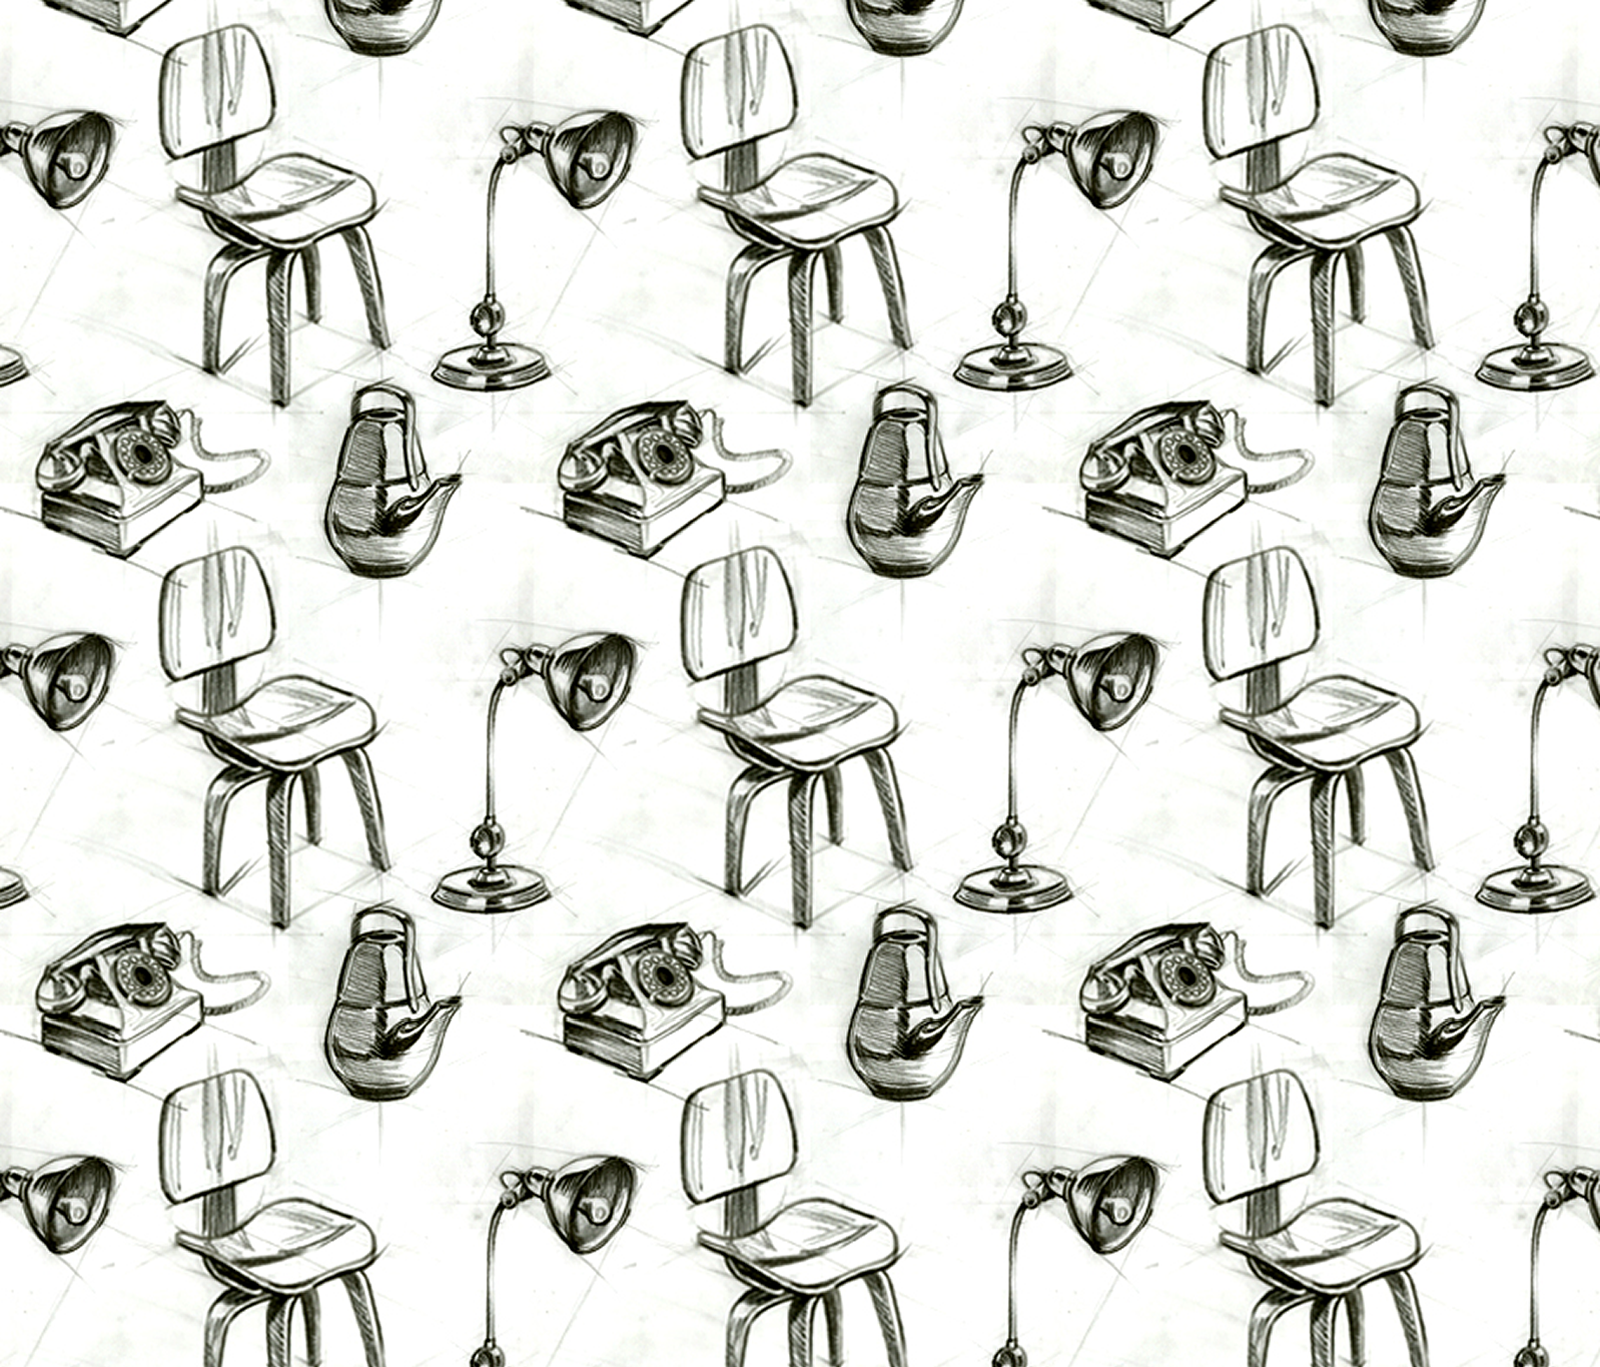
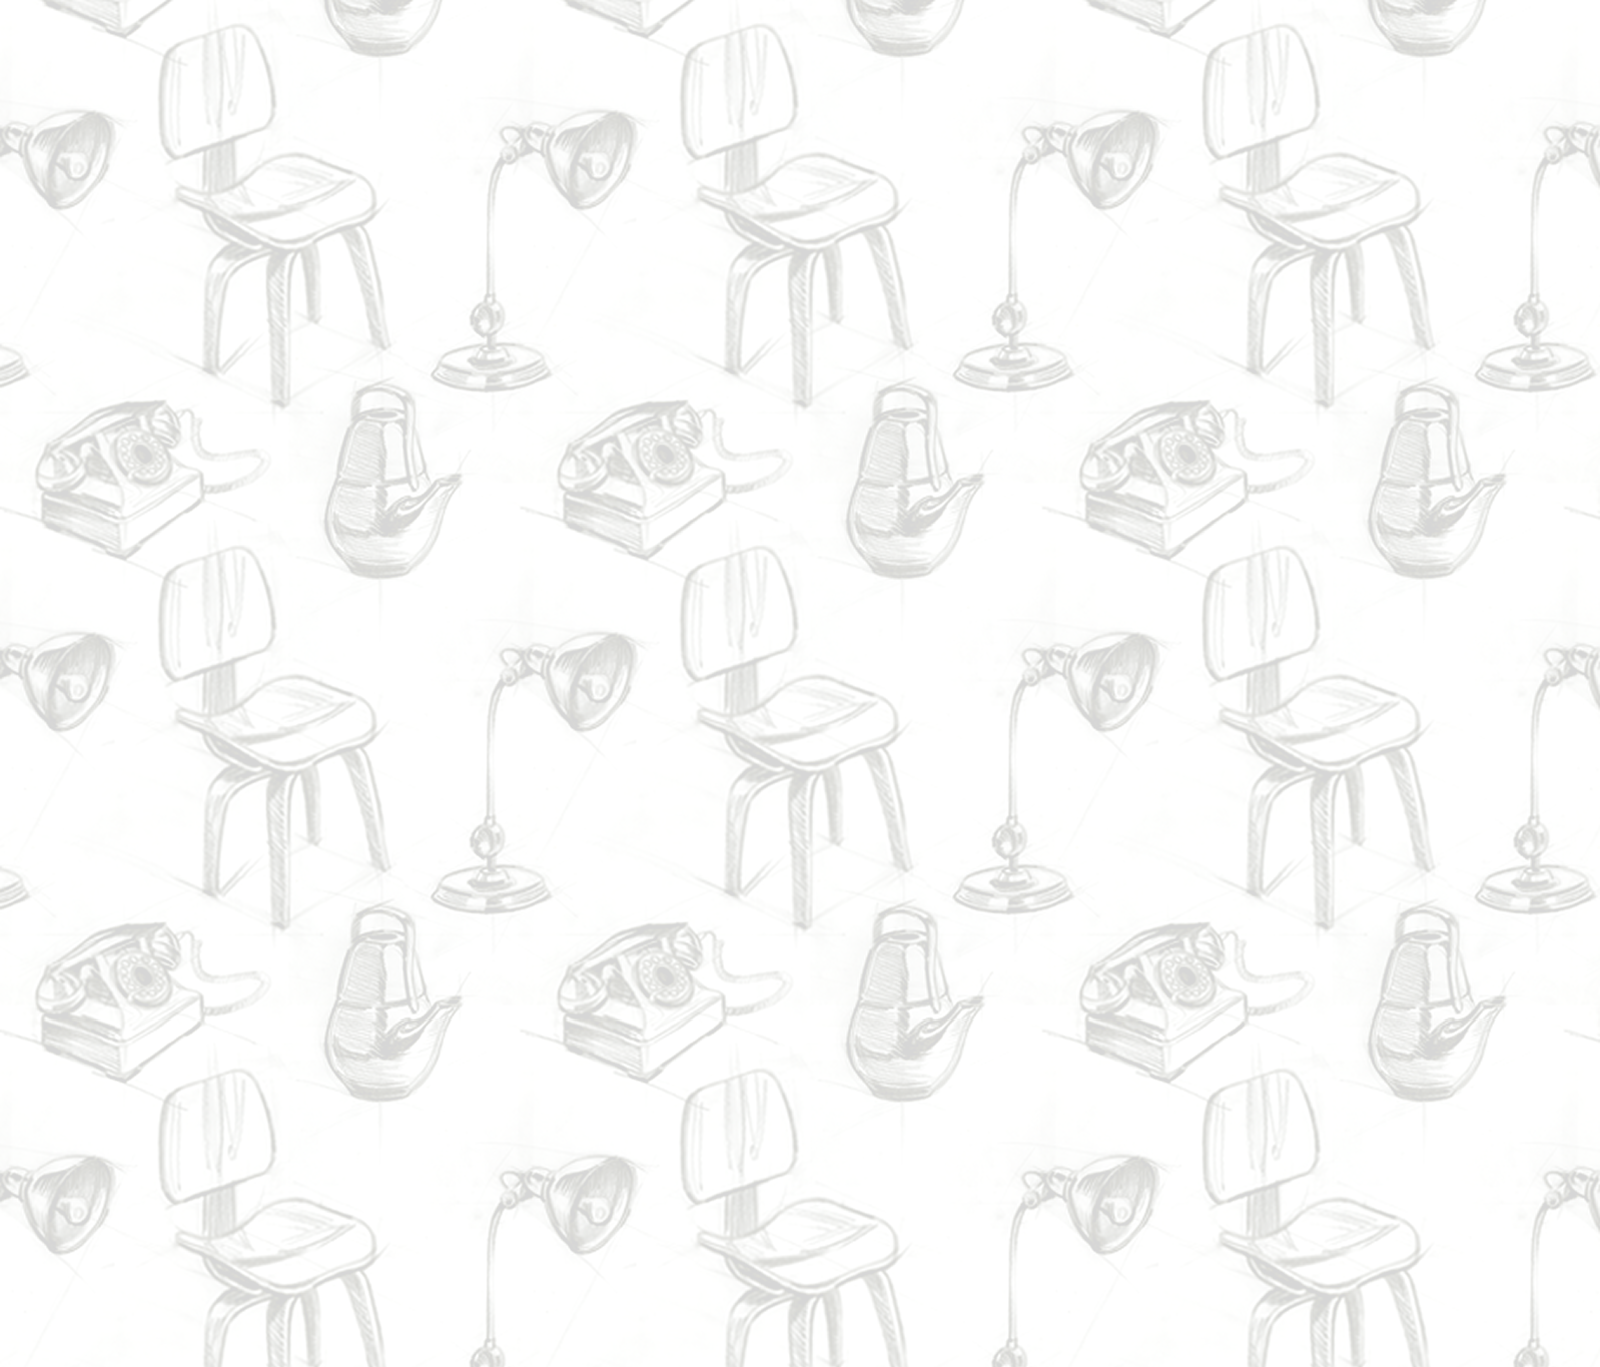
brand

diff --git a/skin/frontend/rwd/beut/css/kh_custom.css b/skin/frontend/rwd/beut/css/kh_custom.css
@@ -423,79 +423,76 @@
     padding: 15px 30px;
 }
 /*cms brand*/
-.cms-brand .main{
-    padding:0 50px;
-}
 
-ul.brands {
-    margin-bottom: 35px;
-    padding: 7px 11px;
-}
-ul.brands li a {
-    font-size: 16px;
-}
-ul.brands li {
-    display: inline;
-    margin: 0 10px;
-}
-ul.brands li:first-child{
-    margin-left: 0px;
-}
 .cms-brand .main {
-   /* background: url("../images/brand.png");*/
-
-}
-.cms-brand .breadcrumbs{
-    display: none;
-}
-.cms-brand .page-title{
-    text-align: center;
-}
-.cms-brand ul.brands{
-    text-align: left;
-    margin-left: 0px;
-    padding-left: 0px;
-}
-.cms-brand .page-title h1 {
-    color: black;
-    font-weight: normal;
-    text-transform: none;
-}
-ul.brands li a {
-    color: black;
-    font-size: 16px;
-    font-style: normal;
+    background: url("../images/brand.png");
+    background-size: auto 100%;
+    padding:20px 50px 40px;
 }
 .brand-col-1 {
     clear: both;
     float: left;
     margin-bottom: 25px;
-    margin-right: 3%;
+    margin-right: 2%;
     margin-top: 10px;
-    width: 22%;
+    width: 18%;
 }
 
 .brand-col-2 {
     float: left;
-    margin-right: 3%;
+    margin-right: 2%;
     margin-top: 10px;
-    width: 22%;
+    width: 18%;
 }
 .brand-col-3 {
     float: left;
-    margin-right: 3%;
+    margin-right: 2%;
     margin-top: 10px;
-    width: 22%;
+    width: 18%;
 }
 .brand-col-4 {
     float: left;
+    margin-right: 2%;
+    margin-top: 10px;
+    width: 18%;
+}
+.brand-col-5 {
+    float: left;
     margin-right: 0;
     margin-top: 10px;
-    width: 25%;
+    width: 20%;
 }
-
-.cms-brand p.letter {
-    font-size: 24px;
+ul.brands {
+    margin-bottom: 35px;
+    padding: 7px 11px 7px 0;
+}
+ul.brands li {
+    display: inline;
+    margin: 0 16px;
+}
+ul.brands li:first-child{
+    margin-left: 0px;
+}
+ul.brands li a {
+    font-size: 16px;
+    color: #000000;
+    font-style: normal;
+}
+.brand-col-1 a, .brand-col-2 a, .brand-col-3 a, .brand-col-4 a, .brand-col-5 a {
+    color: #000000;
+    font-style: normal;
+}
+.cms-brand .page-title h1 {
+    font-weight: normal;
+    text-align: center;
+    text-transform: none;
+}
+.cms-brand .std p {
+    line-height: 12px;
+}
+.cms-brand .std p strong{
+    line-height: 1.2em;
+    font-size: 1.2em;
 }
 @media screen and (min-width: 450px) and (max-width: 849px){
     .customer-account-login .col2-set .col-1, .customer-account-login .col2-set .col-2{
